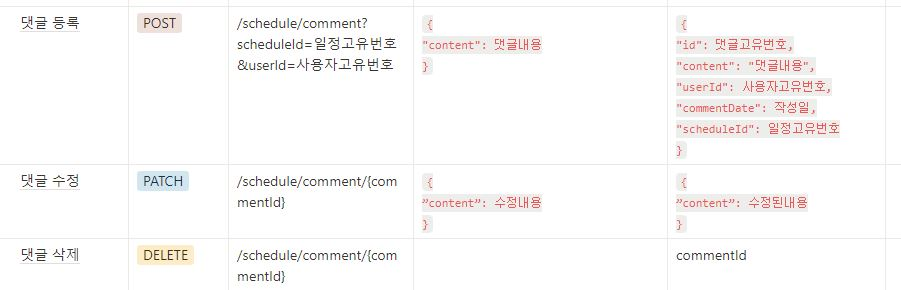
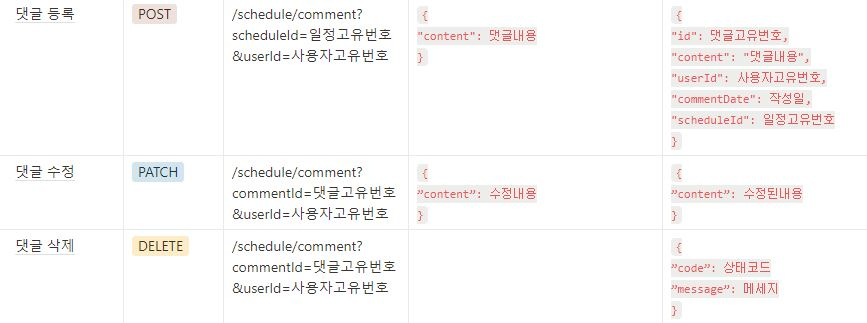
feat: 댓글 삭제 기능 구현, RESTful API 수정

diff --git a/src/main/java/com/sparta/bizee/controller/ExceptionController.java b/src/main/java/com/sparta/bizee/controller/ExceptionController.java
@@ -1,6 +1,6 @@
 package com.sparta.bizee.controller;
 
-import com.sparta.bizee.dto.ErrorResponseDto;
+import com.sparta.bizee.dto.HttpStatusResponseDto;
 import com.sparta.bizee.exception.InvalidFileTypeException;
 import jakarta.validation.ConstraintViolationException;
 import org.springframework.http.HttpStatus;
@@ -19,47 +19,47 @@ public class ExceptionController {
     @ResponseStatus(HttpStatus.BAD_REQUEST)
     @ExceptionHandler(IllegalArgumentException.class)
     @ResponseBody
-    public ErrorResponseDto scheduleExceptionHandler(IllegalArgumentException e) {
-        return new ErrorResponseDto(HttpStatus.BAD_REQUEST.toString(), e.getMessage());
+    public HttpStatusResponseDto scheduleExceptionHandler(IllegalArgumentException e) {
+        return new HttpStatusResponseDto(HttpStatus.BAD_REQUEST.toString(), e.getMessage());
     }
 
     // 잘못된 Body Request
     @ResponseStatus(HttpStatus.BAD_REQUEST)
     @ExceptionHandler(MethodArgumentNotValidException.class)
     @ResponseBody
-    public ErrorResponseDto invalidBodyRequestHandler(MethodArgumentNotValidException e) {
-        return new ErrorResponseDto(HttpStatus.BAD_REQUEST.toString(), e.getBindingResult().getAllErrors().get(0).getDefaultMessage());
+    public HttpStatusResponseDto invalidBodyRequestHandler(MethodArgumentNotValidException e) {
+        return new HttpStatusResponseDto(HttpStatus.BAD_REQUEST.toString(), e.getBindingResult().getAllErrors().get(0).getDefaultMessage());
     }
 
     // 잘못된 Param Request
     @ResponseStatus(HttpStatus.BAD_REQUEST)
     @ExceptionHandler(ConstraintViolationException.class)
     @ResponseBody
-    public ErrorResponseDto invalidParamRequestHandler(ConstraintViolationException e) {
-        return new ErrorResponseDto(HttpStatus.BAD_REQUEST.toString(), e.getMessage());
+    public HttpStatusResponseDto invalidParamRequestHandler(ConstraintViolationException e) {
+        return new HttpStatusResponseDto(HttpStatus.BAD_REQUEST.toString(), e.getMessage());
     }
 
     // 잘못된 File type Request
     @ResponseStatus(HttpStatus.BAD_REQUEST)
     @ExceptionHandler(InvalidFileTypeException.class)
     @ResponseBody
-    public ErrorResponseDto invalidFileTypeRequestHandler(InvalidFileTypeException e) {
-        return new ErrorResponseDto(HttpStatus.BAD_REQUEST.toString(), e.getMessage());
+    public HttpStatusResponseDto invalidFileTypeRequestHandler(InvalidFileTypeException e) {
+        return new HttpStatusResponseDto(HttpStatus.BAD_REQUEST.toString(), e.getMessage());
     }
 
     // IOException
     @ResponseStatus(HttpStatus.INTERNAL_SERVER_ERROR)
     @ExceptionHandler(IOException.class)
     @ResponseBody
-    public ErrorResponseDto failStreamFileRequestHandler(IOException e) {
-        return new ErrorResponseDto(HttpStatus.INTERNAL_SERVER_ERROR.toString(), e.getMessage());
+    public HttpStatusResponseDto failStreamFileRequestHandler(IOException e) {
+        return new HttpStatusResponseDto(HttpStatus.INTERNAL_SERVER_ERROR.toString(), e.getMessage());
     }
 
     // 혹시 모를 범용 Exception 캐치용
     @ResponseStatus(HttpStatus.INTERNAL_SERVER_ERROR)
     @ExceptionHandler(RuntimeException.class)
     @ResponseBody
-    public ErrorResponseDto commonRuntimeExceptionHandler(RuntimeException e) {
-        return new ErrorResponseDto(HttpStatus.INTERNAL_SERVER_ERROR.toString(), e.getMessage());
+    public HttpStatusResponseDto commonRuntimeExceptionHandler(RuntimeException e) {
+        return new HttpStatusResponseDto(HttpStatus.INTERNAL_SERVER_ERROR.toString(), e.getMessage());
     }
 }

diff --git a/src/main/java/com/sparta/bizee/service/CommentService.java b/src/main/java/com/sparta/bizee/service/CommentService.java
@@ -5,10 +5,14 @@ import com.sparta.bizee.Repository.ScheduleRepository;
 import com.sparta.bizee.dto.CommentContentResponseDto;
 import com.sparta.bizee.dto.CommentRequestDto;
 import com.sparta.bizee.dto.CommentResponseDto;
+import com.sparta.bizee.dto.HttpStatusResponseDto;
 import com.sparta.bizee.entity.Comment;
 import com.sparta.bizee.entity.Schedule;
+import org.springframework.http.HttpStatus;
 import org.springframework.stereotype.Service;
 import org.springframework.transaction.annotation.Transactional;
+
+import java.util.Objects;
 
 @Service
 public class CommentService {
@@ -36,11 +40,29 @@ public class CommentService {
     }
 
     @Transactional
-    public CommentContentResponseDto updateComment(Long id, CommentRequestDto requestDto) {
-        Comment comment = commentRepository.findById(id).orElseThrow(
+    public CommentContentResponseDto updateComment(Long commentId, Long userId, CommentRequestDto requestDto) {
+        Comment comment = commentRepository.findById(commentId).orElseThrow(
                 () -> new IllegalArgumentException("존재하지 않는 댓글입니다.")
         );
+
+        if (!Objects.equals(comment.getUserId(), userId)) {
+            throw new IllegalArgumentException("잘못된 사용자 ID입니다.");
+        }
+
         comment.setContent(requestDto.getContent());
         return new CommentContentResponseDto(requestDto.getContent());
+    }
+
+    public HttpStatusResponseDto deleteComment(Long commentId, Long userId) {
+        Comment comment = commentRepository.findById(commentId).orElseThrow(
+                () -> new IllegalArgumentException("존재하지 않는 댓글입니다.")
+        );
+
+        if (!Objects.equals(comment.getUserId(), userId)) {
+            throw new IllegalArgumentException("잘못된 사용자 ID입니다.");
+        }
+
+        commentRepository.delete(comment);
+        return new HttpStatusResponseDto(HttpStatus.OK.toString(), "댓글이 삭제되었습니다.");
     }
 }

diff --git a/src/main/java/com/sparta/bizee/controller/CommentController.java b/src/main/java/com/sparta/bizee/controller/CommentController.java
@@ -3,11 +3,12 @@ package com.sparta.bizee.controller;
 import com.sparta.bizee.dto.CommentContentResponseDto;
 import com.sparta.bizee.dto.CommentRequestDto;
 import com.sparta.bizee.dto.CommentResponseDto;
+import com.sparta.bizee.dto.HttpStatusResponseDto;
 import com.sparta.bizee.service.CommentService;
 import jakarta.validation.Valid;
 import jakarta.validation.constraints.NotNull;
+import org.springframework.web.bind.annotation.DeleteMapping;
 import org.springframework.web.bind.annotation.PatchMapping;
-import org.springframework.web.bind.annotation.PathVariable;
 import org.springframework.web.bind.annotation.PostMapping;
 import org.springframework.web.bind.annotation.RequestBody;
 import org.springframework.web.bind.annotation.RequestMapping;
@@ -32,9 +33,17 @@ public class CommentController {
     }
 
     // 댓글 수정
-    @PatchMapping("/comment/{commentId}")
-    public CommentContentResponseDto updateComment(@NotNull(message = "댓글 id를 입력해주세요.") @PathVariable Long commentId,
+    @PatchMapping("/comment")
+    public CommentContentResponseDto updateComment(@NotNull(message = "댓글 id를 입력해주세요.") @RequestParam Long commentId,
+                                                   @NotNull(message = "사용자 id를 입력해주세요.") @RequestParam Long userId,
                                                    @Valid @RequestBody CommentRequestDto requestDto) {
-        return commentService.updateComment(commentId, requestDto);
+        return commentService.updateComment(commentId, userId, requestDto);
+    }
+
+    // 댓글 삭제
+    @DeleteMapping("/comment")
+    public HttpStatusResponseDto deleteComment(@NotNull(message = "댓글 id를 입력해주세요.") @RequestParam Long commentId,
+                                               @NotNull(message = "사용자 id를 입력해주세요.") @RequestParam Long userId) {
+        return commentService.deleteComment(commentId, userId);
     }
 }

diff --git a/src/main/java/com/sparta/bizee/dto/HttpStatusResponseDto.java b/src/main/java/com/sparta/bizee/dto/HttpStatusResponseDto.java
@@ -5,7 +5,7 @@ import lombok.RequiredArgsConstructor;
 
 @Getter // 추가
 @RequiredArgsConstructor
-public class ErrorResponseDto {
+public class HttpStatusResponseDto {
     private final String code;
     private final String message;
 }

diff --git a/README.md b/README.md
@@ -233,7 +233,7 @@
 </details>
 <br>
 
-## 프로젝트 진행 계획
+## 프로젝트 진행 상황
 
 <details>
 <summary>ver.1</summary>
@@ -261,9 +261,8 @@
 <summary>ver.2</summary>
 
 1. 댓글 Entity 추가, 관계 설정, ERD 수정
-2. 댓글 등록 기능 구현
-3. 댓글 수정 기능 구현
-4. 댓글 삭제 기능 구현
+2. 댓글 등록/수정/삭제 기능 구현
+5. 댓글 등록/수정/삭제 Restful API 피드백 반영: url path와 body를 Restful한 방법으로 변경
 
 </details>
 <br>
